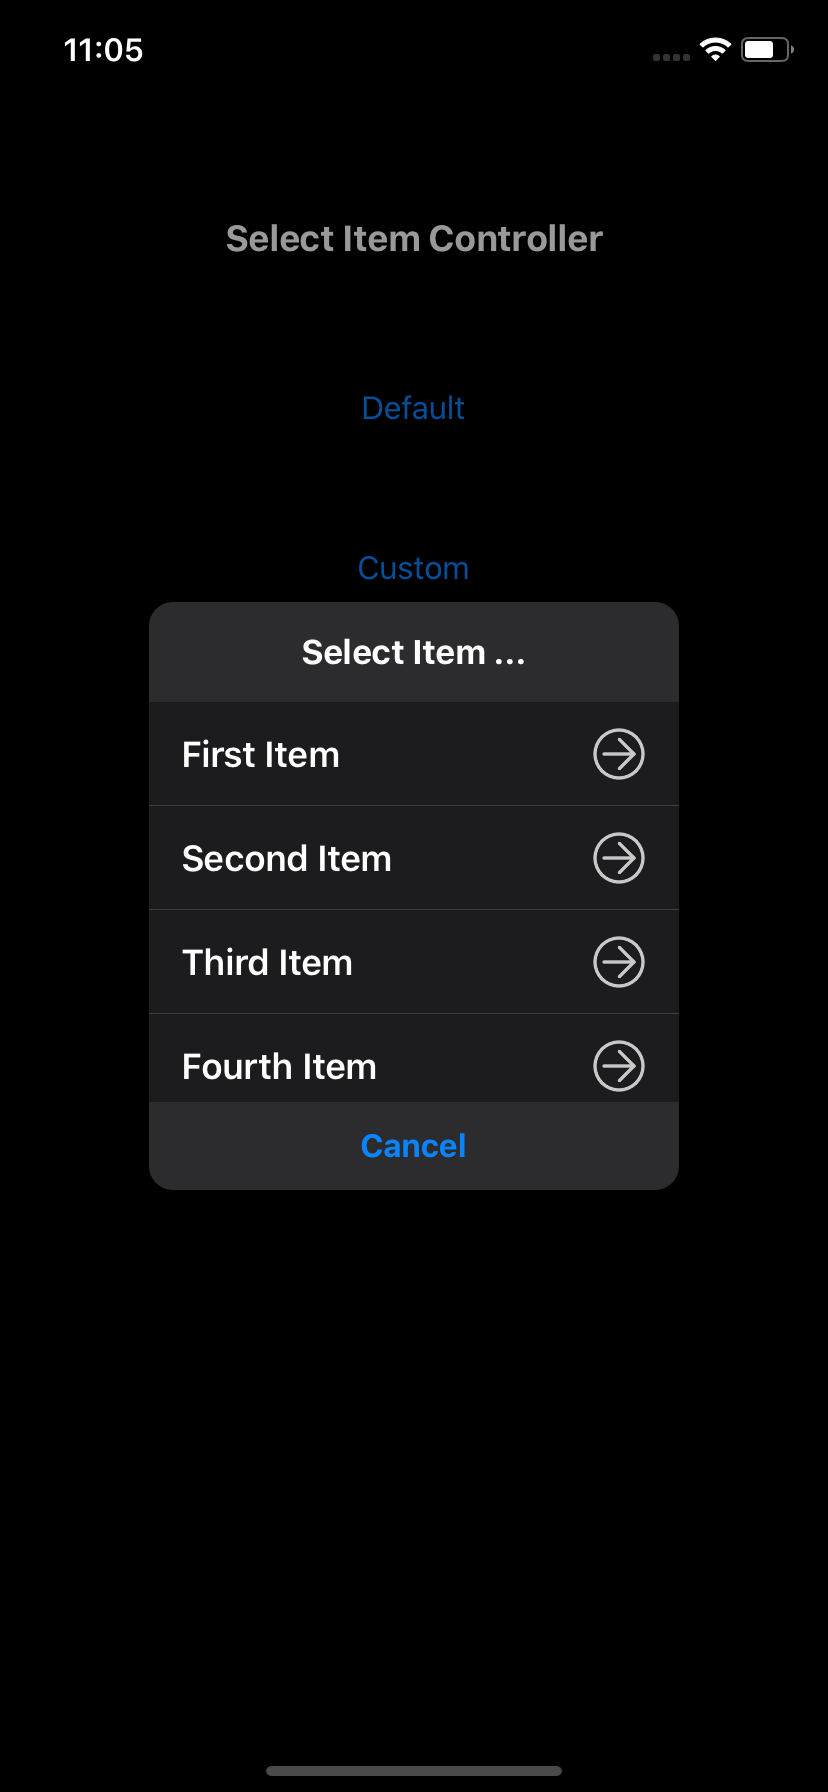
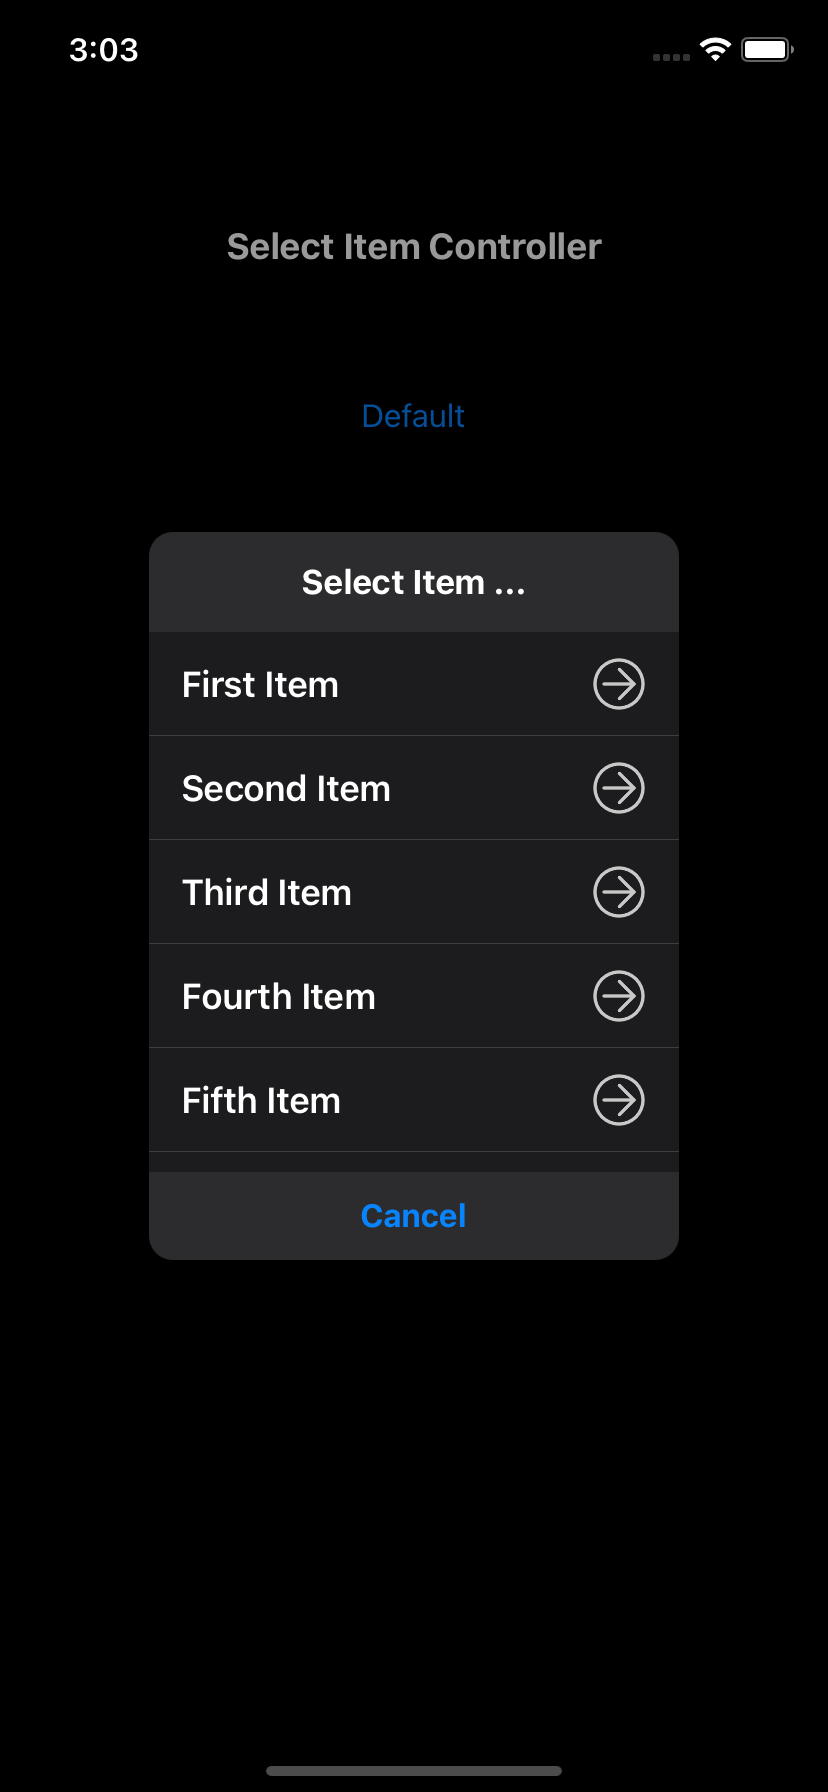
Add Support CocoaPods Refactoring Code

diff --git a/SelectItemController/Dialog/SelectItemViewController.swift b/SelectItemController/Dialog/SelectItemViewController.swift
@@ -12,7 +12,7 @@ protocol SelectItemViewControllerDelegate {
     func didSelected(index: Int?)
 }
 
-final class SelectItemViewController: UIViewController, ItemTableViewDelegate {
+final class SelectItemViewController: UIViewController, ItemTableViewDelegate, MatchParentConstraintType {
 
     var dialogTitle = ""
     var buttonTitle = ""
@@ -20,10 +20,14 @@ final class SelectItemViewController: UIViewController, ItemTableViewDelegate {
     var items: [String]?
     
     @IBOutlet weak var titleLabel: UILabel?
+    @IBOutlet weak var titleView: UIView!
     @IBOutlet weak var btnClose: UIButton?
     @IBOutlet weak var containerView: UIView!
     @IBOutlet weak var dialogView: UIView?
-    @IBOutlet weak var effectView: UIView!
+    @IBOutlet weak var stackView: UIStackView!
+    @IBOutlet weak var titleEffectView: UIVisualEffectView!
+    @IBOutlet weak var btnEffectView: UIVisualEffectView!
+    @IBOutlet weak var tableHeightConstraint: NSLayoutConstraint!
     
     var selectItemViewControllerDelegate: SelectItemViewControllerDelegate?
     
@@ -32,18 +36,20 @@ final class SelectItemViewController: UIViewController, ItemTableViewDelegate {
 
         if self.view.isDarkMode {
             dialogView?.layer.borderColor = UIColor.clear.cgColor
-            effectView.isHidden = true
-            titleLabel?.backgroundColor = UIColor(red: 44.0/255.0, green: 44.0/255.0, blue: 46.0/255.0, alpha: 1.0)
+            titleView?.backgroundColor = UIColor(red: 44.0/255.0, green: 44.0/255.0, blue: 46.0/255.0, alpha: 1.0)
+            titleEffectView.isHidden = true
             btnClose?.backgroundColor = UIColor(red: 44.0/255.0, green: 44.0/255.0, blue: 46.0/255.0, alpha: 1.0)
+            btnEffectView.isHidden = true
         } else {
             dialogView?.layer.borderColor = UIColor(red: 0.8, green: 0.8, blue: 0.8, alpha: 0.4).cgColor
-            effectView.isHidden = false
-            effectView?.layer.cornerRadius = 12.0
+            titleEffectView.isHidden = false
+            btnEffectView.isHidden = false
         }
         
         // DialogView
         dialogView?.layer.cornerRadius = 12.0
         dialogView?.layer.borderWidth = 1.0
+        dialogView?.clipsToBounds = true
         
         // Modal Background
         view.backgroundColor = UIColor(red: 0.0, green: 0.0, blue: 0.0, alpha: 0.4)
@@ -67,6 +73,8 @@ final class SelectItemViewController: UIViewController, ItemTableViewDelegate {
             
             containerView.addSubview(v)
             
+            setConstraint(parent: containerView, subView: v)
+            
         } else {
             // Default
             let itemTableView = DefaultTableView(frame: CGRect(x: 0,
@@ -81,6 +89,32 @@ final class SelectItemViewController: UIViewController, ItemTableViewDelegate {
             itemTableView.itemTableViewDelegate = self
             
             containerView.addSubview(itemTableView)
+            
+            setConstraint(parent: containerView, subView: itemTableView)
+        }
+    }
+    
+    override func viewWillLayoutSubviews() {
+        // adjust height
+        let height = UIScreen.main.bounds.size.height
+        if height <= 320 {
+            tableHeightConstraint.constant = 44 * 3 + 6
+            titleLabel?.numberOfLines = 1
+        } else if height <= 375 {
+            tableHeightConstraint.constant = 44 * 4 + 6
+            titleLabel?.numberOfLines = 2
+        } else if height <= 428 {
+            tableHeightConstraint.constant = 44 * 5 + 6
+            titleLabel?.numberOfLines = 2
+        } else if height <= 568 {
+            tableHeightConstraint.constant = 44 * 5 + 6
+            titleLabel?.numberOfLines = 8
+        } else if height <= 667 {
+            tableHeightConstraint.constant = 44 * 6 + 6
+            titleLabel?.numberOfLines = 9
+        } else {
+            tableHeightConstraint.constant = 44 * 6 + 6
+            titleLabel?.numberOfLines = 10
         }
     }
     

diff --git a/SelectItemController/CustomPresentAnimationController.swift b/SelectItemController/CustomPresentAnimationController.swift
@@ -22,8 +22,8 @@ class CustomPresentAnimationController: NSObject, UIViewControllerAnimatedTransi
         
         toViewController.dialogView?.alpha = 0.2
         toViewController.dialogView?.transform = CGAffineTransform(scaleX: 1.16, y: 1.16)
-        toViewController.effectView.alpha = 0.2
-        toViewController.effectView.transform = CGAffineTransform(scaleX: 1.16, y: 1.16)
+        toViewController.stackView.alpha = 0.2
+        toViewController.stackView.transform = CGAffineTransform(scaleX: 1.16, y: 1.16)
         
         UIView.animate(withDuration: transitionDuration(using: transitionContext),
                        delay: 0.0,
@@ -31,8 +31,8 @@ class CustomPresentAnimationController: NSObject, UIViewControllerAnimatedTransi
                        animations: {
                 toViewController.dialogView?.alpha = 1.0
                 toViewController.dialogView?.transform = CGAffineTransform.identity
-                toViewController.effectView.alpha = 1.0
-                toViewController.effectView.transform = CGAffineTransform.identity
+                toViewController.stackView.alpha = 1.0
+                toViewController.stackView.transform = CGAffineTransform.identity
             
             }, completion: { _ in
                 transitionContext.completeTransition(true)

diff --git a/SelectItemController/Dialog/MatchParentConstraintType.swift b/SelectItemController/Dialog/MatchParentConstraintType.swift
@@ -1,0 +1,39 @@
+//
+//  MatchParentConstraintType.swift
+//  SelectItemController
+//
+//  Created by keygx on 2019/12/08.
+//  Copyright © 2019 keygx. All rights reserved.
+//
+
+import UIKit
+
+protocol MatchParentConstraintType {
+    func setConstraint(parent: UIView, subView: UIView)
+}
+
+extension MatchParentConstraintType {
+    
+    func setConstraint(parent: UIView, subView: UIView) {
+        subView.translatesAutoresizingMaskIntoConstraints = false
+        
+        // add Constraints
+        let views = ["subview": subView]
+        parent.addConstraints(
+            NSLayoutConstraint.constraints(
+                withVisualFormat: "V:|[subview]|",
+                options: NSLayoutConstraint.FormatOptions(rawValue: 0),
+                metrics: nil,
+                views: views
+            )
+        )
+        parent.addConstraints(
+            NSLayoutConstraint.constraints(
+                withVisualFormat: "H:|[subview]|",
+                options: NSLayoutConstraint.FormatOptions(rawValue: 0),
+                metrics: nil,
+                views: views
+            )
+        )
+    }
+}

diff --git a/README.md b/README.md
@@ -15,8 +15,8 @@ SelectItemController is a single selectable dialog. It's easy to use, written in
 | ![](images/default_dark.png) | ![](images/custom_dark.png) |
 
 ## Requirements
-- Swift 5.1
-- iOS 8.0 or later
+- Swift 5.2
+- iOS 9.0 or later
 
 
 ## Installation
@@ -27,8 +27,15 @@ SelectItemController is a single selectable dialog. It's easy to use, written in
 github "keygx/SelectItemController"
 ```
 
+### CocoaPods
+
+```PodFile
+pod 'SelectItemController', :git => 'https://github.com/keygx/SelectItemController'
+```
+
 ### Swift versions support
 
+- Swift 5.2, tag "swift5.2"
 - Swift 5.1, tag "swift5.1"
 - Swift 5, tag "swift5"
 - Swift 4.2, tag "swift4.2"
